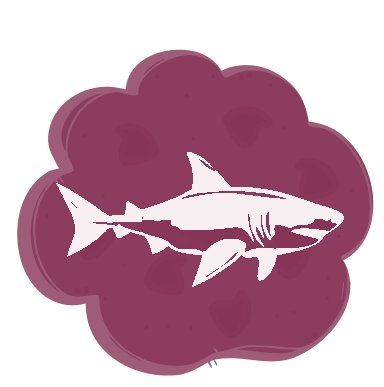
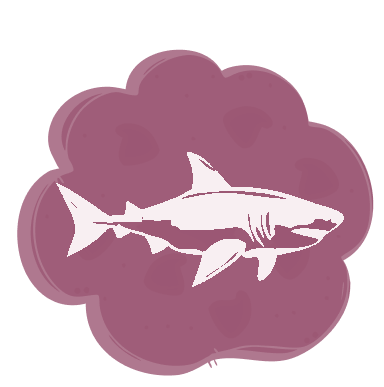
style: increase memory card transparency

diff --git a/memory-game/asset-palette.test.js b/memory-game/asset-palette.test.js
@@ -78,12 +78,12 @@ test("every marine card uses deep pink and off-white with translucent cookies", 
       if (color === "7a1f45") cookieAlphas.push(pixels[index + 3]);
     }
     assert.deepEqual(colors, EXPECTED_COLORS, asset);
-    assert.equal(Math.max(...cookieAlphas), 230, `${asset} cookie opacity`);
+    assert.equal(Math.max(...cookieAlphas), 191, `${asset} cookie opacity`);
   }
 });
 
 test("the cookie back uses the same translucent deep pink", async () => {
   const cookie = await readFile("assets/cookie-card.svg", "utf8");
   assert.match(cookie, /fill="#7A1F45"/);
-  assert.match(cookie, /fill-opacity="0\.9"/);
+  assert.match(cookie, /fill-opacity="0\.75"/);
 });
